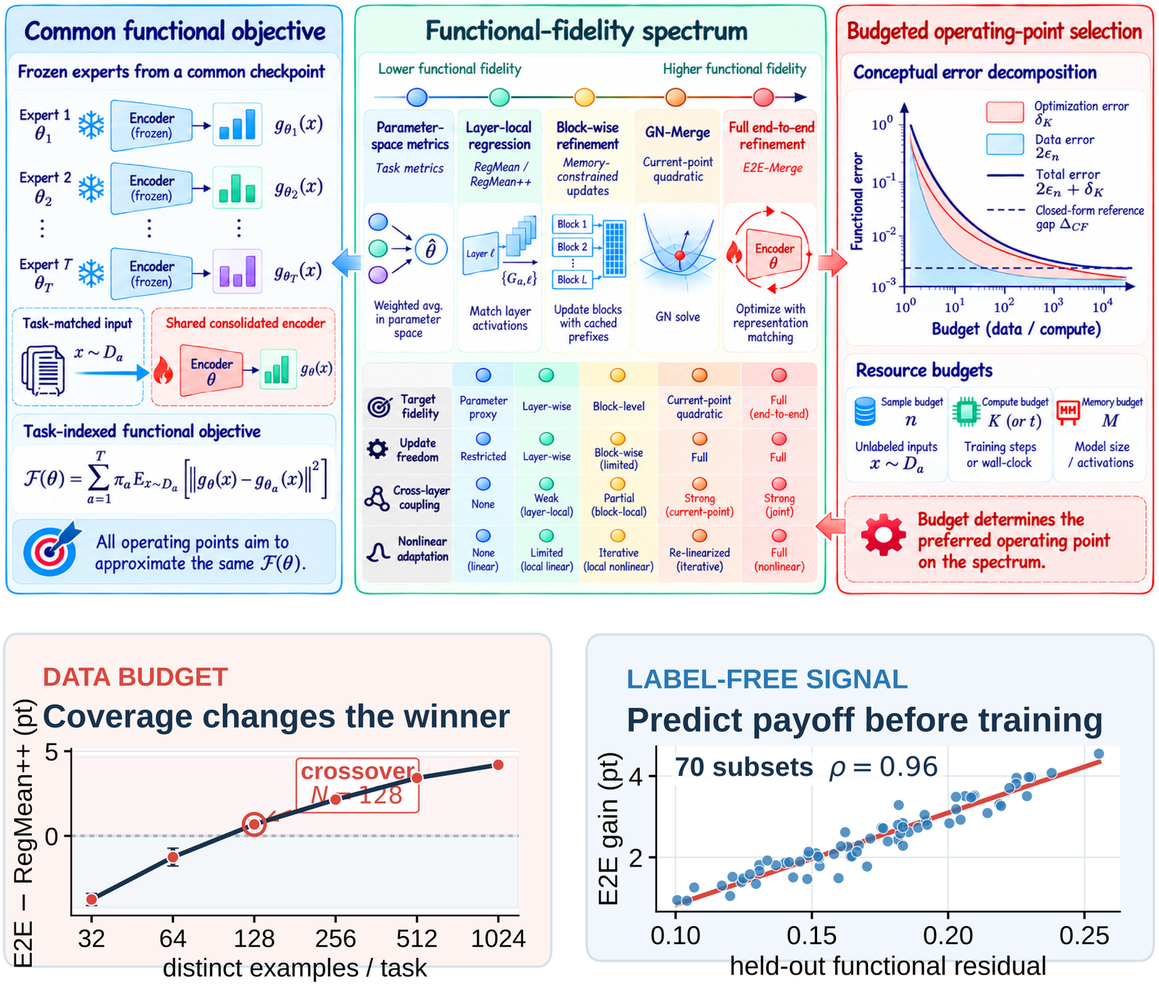
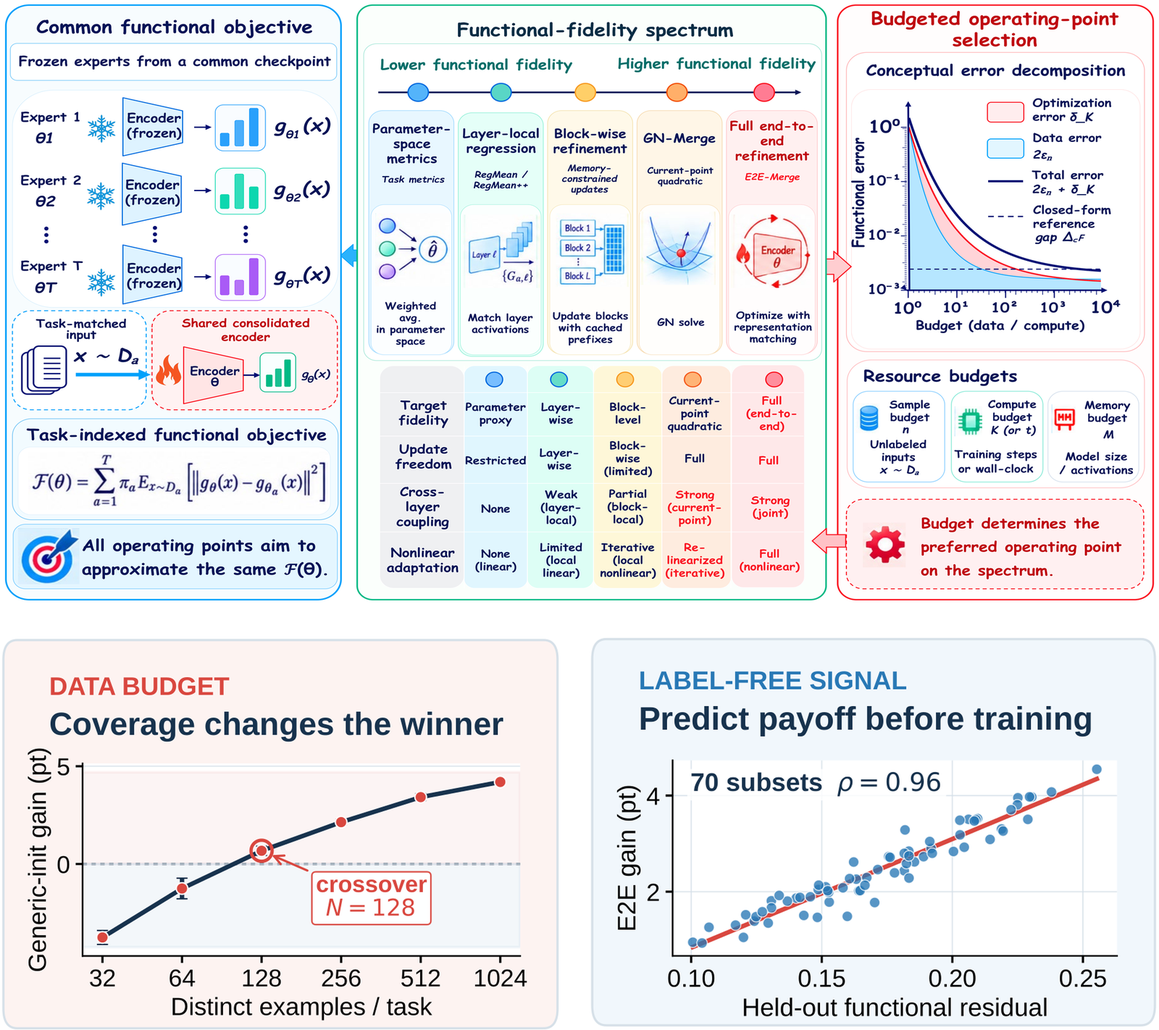
Model Consolidation: retitle paper + recomposed thumbnail (refreshed framework + signal cards)

Changed region(s): [[0.0, 0.0, 1.0, 1.0], [0.9062, 0.866, 0.9688, 0.9588]]

diff --git a/publications.html b/publications.html
@@ -70,7 +70,7 @@
     <div class="fp-legend"><span class="fp-legend-lead">Tags mark the research questions each paper tackles:</span><span><span class="rq-tag q1">RQ1</span> internal structure</span><span><span class="rq-tag q2">RQ2</span> model / agent efficiency</span><span><span class="rq-tag q3">RQ3</span> reasoning efficiency</span><span><span class="rq-tag q4">RQ4</span> deployment</span></div>
     <div class="fp-list">
 <section class="fp-cat-block" data-cat="reasoning"><div class="fp-cat-head"><h2>Reasoning Efficiency</h2><p class="fp-tagline">Making the reasoning process itself cheaper and more adaptive.</p><p class="fp-desc">Methods that let a frozen model steer its own reasoning, selecting the right evidence, routing the right internal pathway, and deciding when to stop, so quality rises while tokens and latency fall.</p></div><div class="fp-sub">Published &amp; Preprints <span class="fp-scount">2</span></div><article class="fp-card2"><div class="thumb"><img src="./assets/sot_main.png" alt=""></div><div class="fp-b"><h3>State of Thought Enables Endogenous Reasoning<span class="rq-tags"><span class="rq-tag q1">RQ1</span><span class="rq-tag q3">RQ3</span></span></h3><p class="authors"><span class="me">Zhiren Gong</span>, Yikun Hou, Zeng Zihao, Ming Xiao, Chau Yuen, Wei Yang Bryan Lim</p><span class="fp-vbadge acc">NeurIPS 2026</span><p class="fp-tldr">A 582-parameter controller reads the model's own internal state to pick evidence and stop early, raising accuracy while cutting roughly 62% of generated tokens and 45% of latency across 3 LLMs and 2 VLMs.</p><div class="pub-links"><a class="pub-link fp-paper" href="https://arxiv.org/abs/2609.16055" target="_blank" rel="noreferrer">Paper</a><a class="pub-link" href="https://gongzhiren.github.io/SoT-website/" target="_blank" rel="noreferrer">Project Page</a><a class="pub-link" href="https://gongzhiren.github.io/SoT-website/tutorial.html" target="_blank" rel="noreferrer">Tutorial</a><a class="pub-link" href="https://github.com/GongZhiren/State-of-Thought" target="_blank" rel="noreferrer"><span class="code-glyph">&lt;/&gt;</span>Code</a></div></div></article><article class="fp-card2"><div class="thumb"><img src="./assets/active_main.png" alt=""></div><div class="fp-b"><h3>Learning Human Habits with Rule-Guided Active Inference<span class="rq-tags"><span class="rq-tag q3">RQ3</span><span class="rq-tag q4">RQ4</span></span></h3><p class="authors"><span class="me">Zhiren Gong</span>, Chao Yang, Wendi Ren, Shuang Li</p><span class="fp-vbadge acc">ICLR 2026</span><p class="fp-tldr">Wake-and-sleep active inference compiles recurring situations into habit rules, so familiar contexts act instantly and novel ones fall back on full planning, reaching 91.3% Acc@3 at 36 ms versus 53 ms.</p><div class="pub-links"><a class="pub-link fp-paper" href="https://openreview.net/forum?id=FZXwkBH6s7" target="_blank" rel="noreferrer">Paper</a><a class="pub-link" href="https://gongzhiren.github.io/ActiveInference-website/" target="_blank" rel="noreferrer">Project Page</a><a class="pub-link" href="https://github.com/GongZhiren/human-action-active-inference" target="_blank" rel="noreferrer"><span class="code-glyph">&lt;/&gt;</span>Code</a></div></div></article><div class="fp-sub soon">Coming soon <span class="fp-scount">3</span></div><article class="fp-card2"><div class="thumb"><img src="./assets/lotr_main.png" alt=""></div><div class="fp-b"><h3>LoTR: Logic-of-Thought Routing for Plug-and-Play Reasoning of LLMs<span class="rq-tags"><span class="rq-tag q1">RQ1</span><span class="rq-tag q3">RQ3</span></span></h3><p class="authors"><span class="me">Zhiren Gong</span>, Ming Xiao, Chau Yuen, Wei Yang Bryan Lim</p><span class="fp-vbadge soon">Coming soon</span><p class="fp-tldr">Plug-and-play logic-conditioned routing reads the step's logic state and re-blends cached head templates with frozen weights, adding 2.66 points on an 8x8 Llama study at only 0.15% more tokens.</p><div class="pub-links"><a class="pub-link" href="https://gongzhiren.github.io/LoTR-website/" target="_blank" rel="noreferrer">Project Page</a><a class="pub-link" href="https://gongzhiren.github.io/LoTR-website/tutorial.html" target="_blank" rel="noreferrer">Tutorial</a></div></div></article><article class="fp-card2"><div class="thumb"><img src="./paper6/overview.png" alt=""></div><div class="fp-b"><h3>Concept-Profile Guided Cross-Agent Memory Sharing for Multi-Turn Conversation<span class="rq-tags"><span class="rq-tag q2">RQ2</span><span class="rq-tag q3">RQ3</span></span></h3><p class="authors">Zijie Wang, <span class="me">Zhiren Gong</span>, Zeng Zihao, Tiantong Wu, Lei Xiao, Wei Yang Bryan Lim</p><span class="fp-vbadge soon">Coming soon</span><p class="fp-tldr">Concept-profile-guided memory sharing across agents lifts multi-agent reasoning accuracy under a bounded token budget, controlling context growth instead of letting it balloon.</p></div></article><article class="fp-card2"><div class="thumb"><img src="./assets/paretoevo_main.png" alt=""></div><div class="fp-b"><h3>ParetoEvo: Pareto-Guided Evolutionary Tree Search for Automatic Heuristic Design with LLM Agents<span class="rq-tags"><span class="rq-tag q2">RQ2</span><span class="rq-tag q3">RQ3</span><span class="rq-tag q4">RQ4</span></span></h3><p class="authors">Haoyun Li, Ming Xiao, Yong Liang Guan, <span class="me">Zhiren Gong</span></p><span class="fp-vbadge soon">Coming soon</span><p class="fp-tldr">Casts automatic heuristic design as Pareto-guided evolutionary tree search, where an LLM actor and reflector jointly optimize solution quality, runtime, and worst-instance robustness.</p></div></article></section>
-<section class="fp-cat-block" data-cat="efficiency"><div class="fp-cat-head"><h2>Model / Agent Efficiency</h2><p class="fp-tagline">Shrinking and serving the model before it ever reasons.</p><p class="fp-desc">Inference-time pruning, cross-module co-pruning, budget-aware merging, speculative agent serving, and reusable agent skills, bringing efficiency at the parameter and system level without retraining the backbone.</p></div><div class="fp-sub">Published &amp; Preprints <span class="fp-scount">3</span></div><article class="fp-card2"><div class="thumb"><img src="./assets/subspacepath_main.png" alt=""></div><div class="fp-b"><h3>SubspacePath Pruner: Inference-time Pruning via Probe-based Representation-Parameter Coupling<span class="rq-tags"><span class="rq-tag q1">RQ1</span><span class="rq-tag q2">RQ2</span><span class="rq-tag q4">RQ4</span></span></h3><p class="authors"><span class="me">Zhiren Gong</span>, Yikun Hou, Fan Wu, Che Wang, Fuyao Zhang, Tiantong Wu, Yurong Hao, Jiaming Zhang, Yiyang Duan, Tiantong Wang, Fei Huang, Chau Yuen, Wei Yang Bryan Lim</p><span class="fp-vbadge acc">ICML 2026</span><p class="fp-tldr">A lightweight probe maps each scenario's domain subspace to a sparse head pathway, so a frozen model keeps only the heads a domain needs and prunes at inference time with no fine-tuning or scenario data.</p><div class="pub-links"><a class="pub-link fp-paper" href="https://openreview.net/forum?id=fvkCjFvWKf" target="_blank" rel="noreferrer">Paper</a><a class="pub-link" href="https://gongzhiren.github.io/SubspacePathPruner-website/" target="_blank" rel="noreferrer">Project Page</a><a class="pub-link" href="https://gongzhiren.github.io/SubspacePathPruner-website/tutorial.html" target="_blank" rel="noreferrer">Tutorial</a><a class="pub-link" href="https://github.com/GongZhiren/SubspacePathPruner" target="_blank" rel="noreferrer"><span class="code-glyph">&lt;/&gt;</span>Code</a></div></div></article><article class="fp-card2"><div class="thumb"><img src="./assets/cocurve_main.png" alt=""></div><div class="fp-b"><h3>CoCurve: Cross-Module Co-Pruning Curvature for Structured LLM Pruning<span class="rq-tags"><span class="rq-tag q1">RQ1</span><span class="rq-tag q2">RQ2</span><span class="rq-tag q4">RQ4</span></span></h3><p class="authors"><span class="me">Zhiren Gong</span>, Zeng Zihao, Tiantong Wang, Yixin Wang, Honoka Anada, Zijie Wang, Ming Xiao, Chau Yuen, Wei Yang Bryan Lim</p><span class="fp-vbadge pre">Preprint</span><p class="fp-tldr">Prunes attention and FFN jointly through cross-module co-pruning curvature recovered from just M single-unit probes, leading every capability class on Llama-3.1-8B at 20% sparsity.</p><div class="pub-links"><a class="pub-link fp-paper" href="https://arxiv.org/abs/2607.17568" target="_blank" rel="noreferrer">Paper</a><a class="pub-link" href="https://gongzhiren.github.io/CoCurve-website/" target="_blank" rel="noreferrer">Project Page</a><a class="pub-link" href="https://gongzhiren.github.io/CoCurve-website/tutorial.html" target="_blank" rel="noreferrer">Tutorial</a><a class="pub-link" href="https://github.com/GongZhiren/CoCurve" target="_blank" rel="noreferrer"><span class="code-glyph">&lt;/&gt;</span>Code</a></div></div></article><article class="fp-card2"><div class="thumb"><img src="./assets/skillfocus_main.png" alt=""></div><div class="fp-b"><h3>SkillFocus: Evolving Agent Skills via Capability Decomposition<span class="rq-tags"><span class="rq-tag q2">RQ2</span><span class="rq-tag q3">RQ3</span><span class="rq-tag q4">RQ4</span></span></h3><p class="authors">Ning Wang, <span class="me">Zhiren Gong</span>, Bingdong Li, Peng Yang, Aimin Zhou</p><span class="fp-vbadge pre">Preprint</span><p class="fp-tldr">Targets skill revision at the capability that leaves the most tasks unsolved, reaching the best held-out accuracy on all four benchmarks, 5.7 points over the strongest baseline, with 24% fewer tokens.</p><div class="pub-links"><a class="pub-link fp-paper" href="https://arxiv.org/abs/2609.34397" target="_blank" rel="noreferrer">Paper</a></div></div></article><div class="fp-sub soon">Coming soon <span class="fp-scount">2</span></div><article class="fp-card2"><div class="thumb"><img src="./assets/e2e_main.png" alt=""></div><div class="fp-b"><h3>When Does Refinement Pay? A Budgeted Functional View of Model Consolidation<span class="rq-tags"><span class="rq-tag q2">RQ2</span><span class="rq-tag q4">RQ4</span></span></h3><p class="authors"><span class="me">Zhiren Gong</span>, Tiantong Wang, Zeng Zihao, Yiyang Duan, Ming Xiao, Chau Yuen, Wei Yang Bryan Lim</p><span class="fp-vbadge soon">Coming soon</span><p class="fp-tldr">Frames model consolidation as choosing how faithfully to preserve expert behavior within a data, compute, and memory budget, with a label-free residual that predicts when end-to-end refinement beats a closed-form merge and gets 92.9% of refine-or-stop decisions right.</p><div class="pub-links"><a class="pub-link" href="https://gongzhiren.github.io/E2E-website/" target="_blank" rel="noreferrer">Project Page</a><a class="pub-link" href="https://gongzhiren.github.io/E2E-website/tutorial.html" target="_blank" rel="noreferrer">Tutorial</a></div></div></article><article class="fp-card2"><div class="thumb"><img src="./assets/specroute_main.png" alt=""></div><div class="fp-b"><h3>SpecRoute: Multi-Step Speculation for Efficient LLM Agent Serving<span class="rq-tags"><span class="rq-tag q2">RQ2</span><span class="rq-tag q4">RQ4</span></span></h3><p class="authors">Zeng Zihao, Siyi Li, <span class="me">Zhiren Gong</span>, Lei Xiao, Wei Yang Bryan Lim</p><span class="fp-vbadge soon">Coming soon</span><p class="fp-tldr">A draft agent speculates future tool actions off-GPU and verifies them at tool-call boundaries with KV reuse, giving 1.28 to 1.56x single-request speedups over vLLM at matched task quality.</p></div></article></section>
+<section class="fp-cat-block" data-cat="efficiency"><div class="fp-cat-head"><h2>Model / Agent Efficiency</h2><p class="fp-tagline">Shrinking and serving the model before it ever reasons.</p><p class="fp-desc">Inference-time pruning, cross-module co-pruning, budget-aware merging, speculative agent serving, and reusable agent skills, bringing efficiency at the parameter and system level without retraining the backbone.</p></div><div class="fp-sub">Published &amp; Preprints <span class="fp-scount">3</span></div><article class="fp-card2"><div class="thumb"><img src="./assets/subspacepath_main.png" alt=""></div><div class="fp-b"><h3>SubspacePath Pruner: Inference-time Pruning via Probe-based Representation-Parameter Coupling<span class="rq-tags"><span class="rq-tag q1">RQ1</span><span class="rq-tag q2">RQ2</span><span class="rq-tag q4">RQ4</span></span></h3><p class="authors"><span class="me">Zhiren Gong</span>, Yikun Hou, Fan Wu, Che Wang, Fuyao Zhang, Tiantong Wu, Yurong Hao, Jiaming Zhang, Yiyang Duan, Tiantong Wang, Fei Huang, Chau Yuen, Wei Yang Bryan Lim</p><span class="fp-vbadge acc">ICML 2026</span><p class="fp-tldr">A lightweight probe maps each scenario's domain subspace to a sparse head pathway, so a frozen model keeps only the heads a domain needs and prunes at inference time with no fine-tuning or scenario data.</p><div class="pub-links"><a class="pub-link fp-paper" href="https://openreview.net/forum?id=fvkCjFvWKf" target="_blank" rel="noreferrer">Paper</a><a class="pub-link" href="https://gongzhiren.github.io/SubspacePathPruner-website/" target="_blank" rel="noreferrer">Project Page</a><a class="pub-link" href="https://gongzhiren.github.io/SubspacePathPruner-website/tutorial.html" target="_blank" rel="noreferrer">Tutorial</a><a class="pub-link" href="https://github.com/GongZhiren/SubspacePathPruner" target="_blank" rel="noreferrer"><span class="code-glyph">&lt;/&gt;</span>Code</a></div></div></article><article class="fp-card2"><div class="thumb"><img src="./assets/cocurve_main.png" alt=""></div><div class="fp-b"><h3>CoCurve: Cross-Module Co-Pruning Curvature for Structured LLM Pruning<span class="rq-tags"><span class="rq-tag q1">RQ1</span><span class="rq-tag q2">RQ2</span><span class="rq-tag q4">RQ4</span></span></h3><p class="authors"><span class="me">Zhiren Gong</span>, Zeng Zihao, Tiantong Wang, Yixin Wang, Honoka Anada, Zijie Wang, Ming Xiao, Chau Yuen, Wei Yang Bryan Lim</p><span class="fp-vbadge pre">Preprint</span><p class="fp-tldr">Prunes attention and FFN jointly through cross-module co-pruning curvature recovered from just M single-unit probes, leading every capability class on Llama-3.1-8B at 20% sparsity.</p><div class="pub-links"><a class="pub-link fp-paper" href="https://arxiv.org/abs/2607.17568" target="_blank" rel="noreferrer">Paper</a><a class="pub-link" href="https://gongzhiren.github.io/CoCurve-website/" target="_blank" rel="noreferrer">Project Page</a><a class="pub-link" href="https://gongzhiren.github.io/CoCurve-website/tutorial.html" target="_blank" rel="noreferrer">Tutorial</a><a class="pub-link" href="https://github.com/GongZhiren/CoCurve" target="_blank" rel="noreferrer"><span class="code-glyph">&lt;/&gt;</span>Code</a></div></div></article><article class="fp-card2"><div class="thumb"><img src="./assets/skillfocus_main.png" alt=""></div><div class="fp-b"><h3>SkillFocus: Evolving Agent Skills via Capability Decomposition<span class="rq-tags"><span class="rq-tag q2">RQ2</span><span class="rq-tag q3">RQ3</span><span class="rq-tag q4">RQ4</span></span></h3><p class="authors">Ning Wang, <span class="me">Zhiren Gong</span>, Bingdong Li, Peng Yang, Aimin Zhou</p><span class="fp-vbadge pre">Preprint</span><p class="fp-tldr">Targets skill revision at the capability that leaves the most tasks unsolved, reaching the best held-out accuracy on all four benchmarks, 5.7 points over the strongest baseline, with 24% fewer tokens.</p><div class="pub-links"><a class="pub-link fp-paper" href="https://arxiv.org/abs/2609.34397" target="_blank" rel="noreferrer">Paper</a></div></div></article><div class="fp-sub soon">Coming soon <span class="fp-scount">2</span></div><article class="fp-card2"><div class="thumb"><img src="./assets/e2e_main.png" alt=""></div><div class="fp-b"><h3>Model Consolidation: When Does Refinement Pay?<span class="rq-tags"><span class="rq-tag q2">RQ2</span><span class="rq-tag q4">RQ4</span></span></h3><p class="authors"><span class="me">Zhiren Gong</span>, Tiantong Wang, Zeng Zihao, Yiyang Duan, Ming Xiao, Chau Yuen, Wei Yang Bryan Lim</p><span class="fp-vbadge soon">Coming soon</span><p class="fp-tldr">Frames model consolidation as choosing how faithfully to preserve expert behavior within a data, compute, and memory budget, with a label-free residual that predicts when end-to-end refinement beats a closed-form merge and gets 92.9% of refine-or-stop decisions right.</p><div class="pub-links"><a class="pub-link" href="https://gongzhiren.github.io/E2E-website/" target="_blank" rel="noreferrer">Project Page</a><a class="pub-link" href="https://gongzhiren.github.io/E2E-website/tutorial.html" target="_blank" rel="noreferrer">Tutorial</a></div></div></article><article class="fp-card2"><div class="thumb"><img src="./assets/specroute_main.png" alt=""></div><div class="fp-b"><h3>SpecRoute: Multi-Step Speculation for Efficient LLM Agent Serving<span class="rq-tags"><span class="rq-tag q2">RQ2</span><span class="rq-tag q4">RQ4</span></span></h3><p class="authors">Zeng Zihao, Siyi Li, <span class="me">Zhiren Gong</span>, Lei Xiao, Wei Yang Bryan Lim</p><span class="fp-vbadge soon">Coming soon</span><p class="fp-tldr">A draft agent speculates future tool actions off-GPU and verifies them at tool-call boundaries with KV reuse, giving 1.28 to 1.56x single-request speedups over vLLM at matched task quality.</p></div></article></section>
 <section class="fp-cat-block" data-cat="theory"><div class="fp-cat-head"><h2>Theory &amp; Interpretability</h2><p class="fp-tagline">Understanding what the computation inside a model actually does.</p><p class="fp-desc">Mechanistic accounts of transformer circuits, expert sharing, and mixture-of-experts sample efficiency, turning internal structure into claims we can test rather than trust.</p></div><div class="fp-sub">Published &amp; Preprints <span class="fp-scount">1</span></div><article class="fp-card2"><div class="thumb"><img src="./assets/coax_main.png?v=5" alt=""></div><div class="fp-b"><h3>Conditional Co-Ablation: Recovering Self-Repair Backups in Transformer Circuits<span class="rq-tags"><span class="rq-tag q1">RQ1</span></span></h3><p class="authors"><span class="me">Zhiren Gong</span>, He Lu, Tiantong Wang, Yichi Zhang, Yixin Wang, Zeng Zihao, Ming Xiao, Chau Yuen, Wei Yang Bryan Lim</p><span class="fp-vbadge pre">Preprint</span><p class="fp-tldr">Ranks components by how much their ablation effect grows once a primary set is removed, recovering GPT-2 IOI self-repair backups at 0.941 ROC-AUC and cutting circuit incompleteness from 0.75 to 0.21.</p><div class="pub-links"><a class="pub-link fp-paper" href="https://arxiv.org/abs/2607.01940" target="_blank" rel="noreferrer">Paper</a><a class="pub-link" href="https://gongzhiren.github.io/Conditional-Co-Ablation-website/" target="_blank" rel="noreferrer">Project Page</a><a class="pub-link" href="https://gongzhiren.github.io/Conditional-Co-Ablation-website/tutorial.html" target="_blank" rel="noreferrer">Tutorial</a><a class="pub-link" href="https://github.com/GongZhiren/Conditional-Co-Ablation" target="_blank" rel="noreferrer"><span class="code-glyph">&lt;/&gt;</span>Code</a></div></div></article><div class="fp-sub soon">Coming soon <span class="fp-scount">3</span></div><article class="fp-card2"><div class="thumb"><img src="./assets/rltb_main.png" alt=""></div><div class="fp-b"><h3>Reinforcement Learning toward Target Behavior<span class="rq-tags"><span class="rq-tag q1">RQ1</span><span class="rq-tag q4">RQ4</span></span></h3><p class="authors">Yichi Zhang, <span class="me">Zhiren Gong</span>, Yucheng Chen, Jun Liu, Si Yong Yeo</p><span class="fp-vbadge soon">Coming soon</span><p class="fp-tldr">Reframes post-training as reaching a declared behavioral target region, where TB-GRPO turns each behavior's deviation into group-relative advantages and reaches the smallest joint target gaps among baselines.</p></div></article><article class="fp-card2"><div class="thumb"><img src="./assets/expert_sharing_main.png" alt=""></div><div class="fp-b"><h3>From Local Prediction Error to Final Outputs: A Theory of Expert Sharing in Multi-Step Reasoning<span class="rq-tags"><span class="rq-tag q1">RQ1</span><span class="rq-tag q3">RQ3</span></span></h3><p class="authors">Tiantong Wang, <span class="me">Zhiren Gong</span>, Yixin Wang, Tiantong Wu, Wei Yang Bryan Lim</p><span class="fp-vbadge soon">Coming soon</span><p class="fp-tldr">Proves when sharing one expert across reasoning steps lowers local error yet raises final-output error, characterizing a local-to-final risk reversal that predictive success alone cannot rule out.</p></div></article><article class="fp-card2"><div class="thumb"><img src="./paper_picture/Why%20Mixture%20of%20Experts%20Needs%20Fewer%20Samples.png" alt=""></div><div class="fp-b"><h3>Why Mixture of Experts Needs Fewer Samples Than Dense Networks: The Information Exponent Collapse Theorem<span class="rq-tags"><span class="rq-tag q1">RQ1</span><span class="rq-tag q2">RQ2</span></span></h3><p class="authors">Tiantong Wang, <span class="me">Zhiren Gong</span>, Yikun Hou, Tiantong Wu, Wei Yang Bryan Lim</p><span class="fp-vbadge soon">Coming soon</span><p class="fp-tldr">Proves mixture-of-experts crosses learning barriers with far fewer samples than dense networks, through an information-exponent collapse that lowers the target function's effective complexity.</p></div></article></section>
 <section class="fp-cat-block" data-cat="application"><div class="fp-cat-head"><h2>Applications</h2><p class="fp-tagline">Putting foundation models to work, and stress-testing where they break.</p><p class="fp-desc">Benchmarks and systems that take models into scientific composition, maritime judgment, RF sensing, and the physical world, exposing the failure modes real deployment must handle.</p></div><div class="fp-sub">Published &amp; Preprints <span class="fp-scount">3</span></div><article class="fp-card2"><div class="thumb"><img src="./assets/xdomain_main.png" alt=""></div><div class="fp-b"><h3>XDomainBench: Diagnosing Reasoning Collapse in High-Dimensional Scientific Knowledge Composition<span class="rq-tags"><span class="rq-tag q3">RQ3</span><span class="rq-tag q4">RQ4</span></span></h3><p class="authors"><span class="me">Zhiren Gong</span>, Tiantong Wu, Jiaming Zhang, Fuyao Zhang, Che Wang, Yurong Hao, Yikun Hou, Foo Ping, Yilei Zhao, Fei Huang, Chau Yuen, Wei Yang Bryan Lim</p><span class="fp-vbadge acc">ICML 2026</span><p class="fp-tldr">Stress-tests cross-domain scientific knowledge composition and shows exactly where and why reasoning collapses as the number of fused domains grows, turning a diffuse failure into a measurable axis.</p><div class="pub-links"><a class="pub-link fp-paper" href="https://openreview.net/forum?id=U8x5SYtT5b" target="_blank" rel="noreferrer">Paper</a><a class="pub-link" href="https://gongzhiren.github.io/XDomainBench-website/" target="_blank" rel="noreferrer">Project Page</a><a class="pub-link" href="https://gongzhiren.github.io/XDomainBench-website/tutorial.html" target="_blank" rel="noreferrer">Tutorial</a><a class="pub-link" href="https://github.com/GongZhiren/XDomainBench" target="_blank" rel="noreferrer"><span class="code-glyph">&lt;/&gt;</span>Code</a></div></div></article><article class="fp-card2"><div class="thumb"><img src="./paper_picture/Channel%20Gains%20to%20Caption.png" alt=""></div><div class="fp-b"><h3>Channel Gains to Captions: Task-Unified Multi-Level RF Sensing with Vision-Language Models<span class="rq-tags"><span class="rq-tag q4">RQ4</span></span></h3><p class="authors">Tianyu Hu, <span class="me">Zhiren Gong</span>, Haowei Cui, Shuai Wang, Samson Lasaulce, Lingxiang Li, Wassim Hamidouche, Zhi Chen, Merouane Debbah</p><span class="fp-vbadge acc">IEEE WCL</span><p class="fp-tldr">Unifies multi-level RF sensing with vision-language models so one model reads channel-level wireless structure and describes it in caption-level semantics within a single task-unified framework.</p><div class="pub-links"><a class="pub-link fp-paper" href="https://arxiv.org/pdf/2608.30836" target="_blank" rel="noreferrer">Paper</a></div></div></article><article class="fp-card2"><div class="thumb"><img src="./paper_picture/3D%20Radio%20Map%20Reconstruction.png" alt=""></div><div class="fp-b"><h3>3D Radio Map Reconstruction based on Generative Adversarial Networks under Constrained Aircraft Trajectories<span class="rq-tags"><span class="rq-tag q4">RQ4</span></span></h3><p class="authors">Tianyu Hu, Yang Huang, Junting Chen, Qihui Wu, <span class="me">Zhiren Gong</span></p><span class="fp-vbadge acc">IEEE TVT 2023</span><p class="fp-tldr">A GAN reconstructs dense 3D radio maps from sparse aircraft measurements collected under constrained flight trajectories, recovering signal fields that limited sampling misses.</p><div class="pub-links"><a class="pub-link fp-paper" href="https://doi.org/10.1109/TVT.2023.3239556" target="_blank" rel="noreferrer">Paper</a><a class="pub-link" href="./paper2/Journal_3DDCRGAN.pdf" target="_blank" rel="noreferrer">PDF</a></div></div></article><div class="fp-sub soon">Coming soon <span class="fp-scount">3</span></div><article class="fp-card2"><div class="thumb"><img src="./assets/maribench_main.png" alt=""></div><div class="fp-b"><h3>MariBench: Benchmarking LLM Agents for Maritime Operational Judgment over Raw AIS Data<span class="rq-tags"><span class="rq-tag q3">RQ3</span><span class="rq-tag q4">RQ4</span></span></h3><p class="authors">He Lu, <span class="me">Zhiren Gong</span>, Fuyao Zhang, Tianbing Xia, Yufan Huang, Wei Yang Bryan Lim, Ran Yan</p><span class="fp-vbadge soon">Coming soon</span><p class="fp-tldr">The first interactive agent benchmark for maritime judgment over raw AIS: across 17 models grounding is near-ceiling at 79 to 100%, yet judgment stalls at 45 to 62%, dominated by over-escalation.</p></div></article><article class="fp-card2"><div class="thumb"><img src="./paper5/figure.png" alt=""></div><div class="fp-b"><h3>C2U in RAG: Compositional Concept Unlearning in Retrieval-Augmented Generation<span class="rq-tags"><span class="rq-tag q4">RQ4</span></span></h3><p class="authors">Yiyang Duan, Fan Wu, Tiantong Wu, Che Wang, <span class="me">Zhiren Gong</span>, Wei Guo, Yang Cao, Wei Yang Bryan Lim</p><span class="fp-vbadge soon">Coming soon</span><p class="fp-tldr">Compositional concept unlearning for retrieval-augmented generation removes targeted and even emergent combined knowledge while preserving utility on everything meant to be retained.</p></div></article><article class="fp-card2"><div class="thumb"><img src="./paper_picture/When%20Large%20Language%20Models%20Meet%20.png" alt=""></div><div class="fp-b"><h3>When Large Language Models Meet the Physical World: Beyond Task-Level, Toward Situation-Level<span class="rq-tags"><span class="rq-tag q4">RQ4</span></span></h3><p class="authors">Yang Liu, <span class="me">Zhiren Gong</span>, Xiaoping Wang, Jianbo Zheng, Guanghui Ye, Jinhong Hu, Kai Lu, Wei Yang Bryan Lim</p><span class="fp-vbadge soon">Coming soon</span><p class="fp-tldr">Argues that task-level competence breaks on embodied, non-semantic signals and calls for situation-level understanding to build robust, reliable physical-world cognition.</p></div></article></section>
     </div>

diff --git a/index.html b/index.html
@@ -294,7 +294,7 @@
           <article class="pub-card">
             <img class="e2e-main" src="./assets/e2e_main.png" alt="When Does Refinement Pay? The framework (one functional objective, a fidelity spectrum, budgeted operating-point selection) above the two empirical signals: the data-budget crossover and the label-free refinement predictor" loading="lazy">
             <div class="pub-main">
-              <h3>When Does Refinement Pay? A Budgeted Functional View of Model Consolidation<span class="rq-tags"><span class="rq-tag q2">RQ2</span><span class="rq-tag q4">RQ4</span></span></h3>
+              <h3>Model Consolidation: When Does Refinement Pay?<span class="rq-tags"><span class="rq-tag q2">RQ2</span><span class="rq-tag q4">RQ4</span></span></h3>
               <p class="authors"><span class="me">Zhiren Gong</span>, Tiantong Wang, Zeng Zihao, Yiyang Duan, Ming Xiao, Chau Yuen, Wei Yang Bryan Lim</p>
               <div class="pub-meta">
                 <span class="venue-badge">Coming soon</span>
